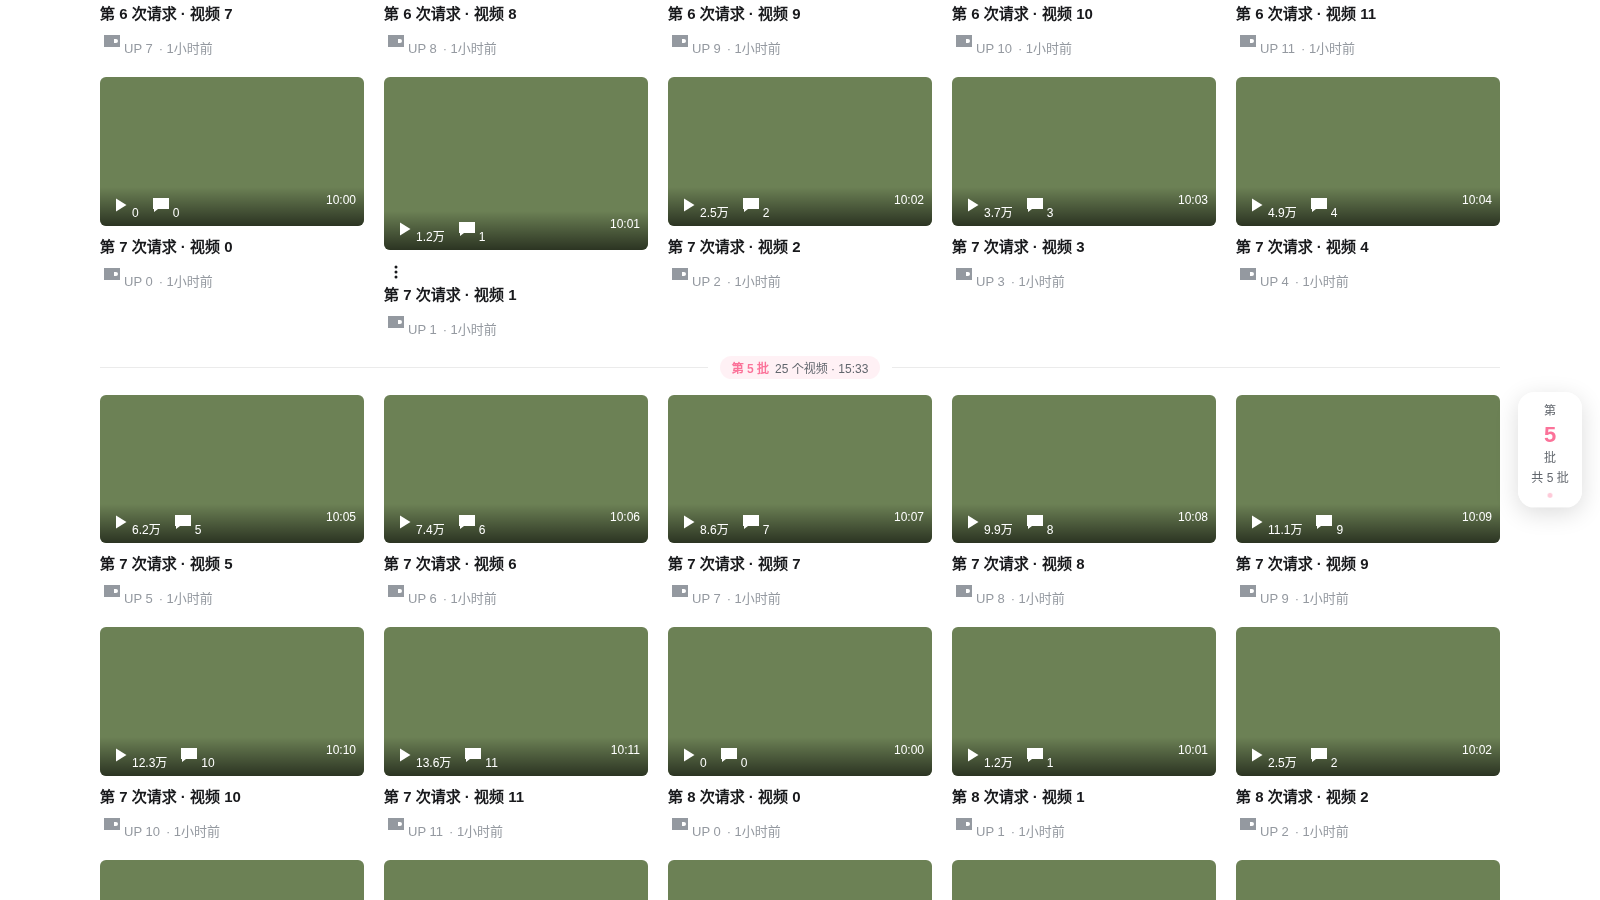
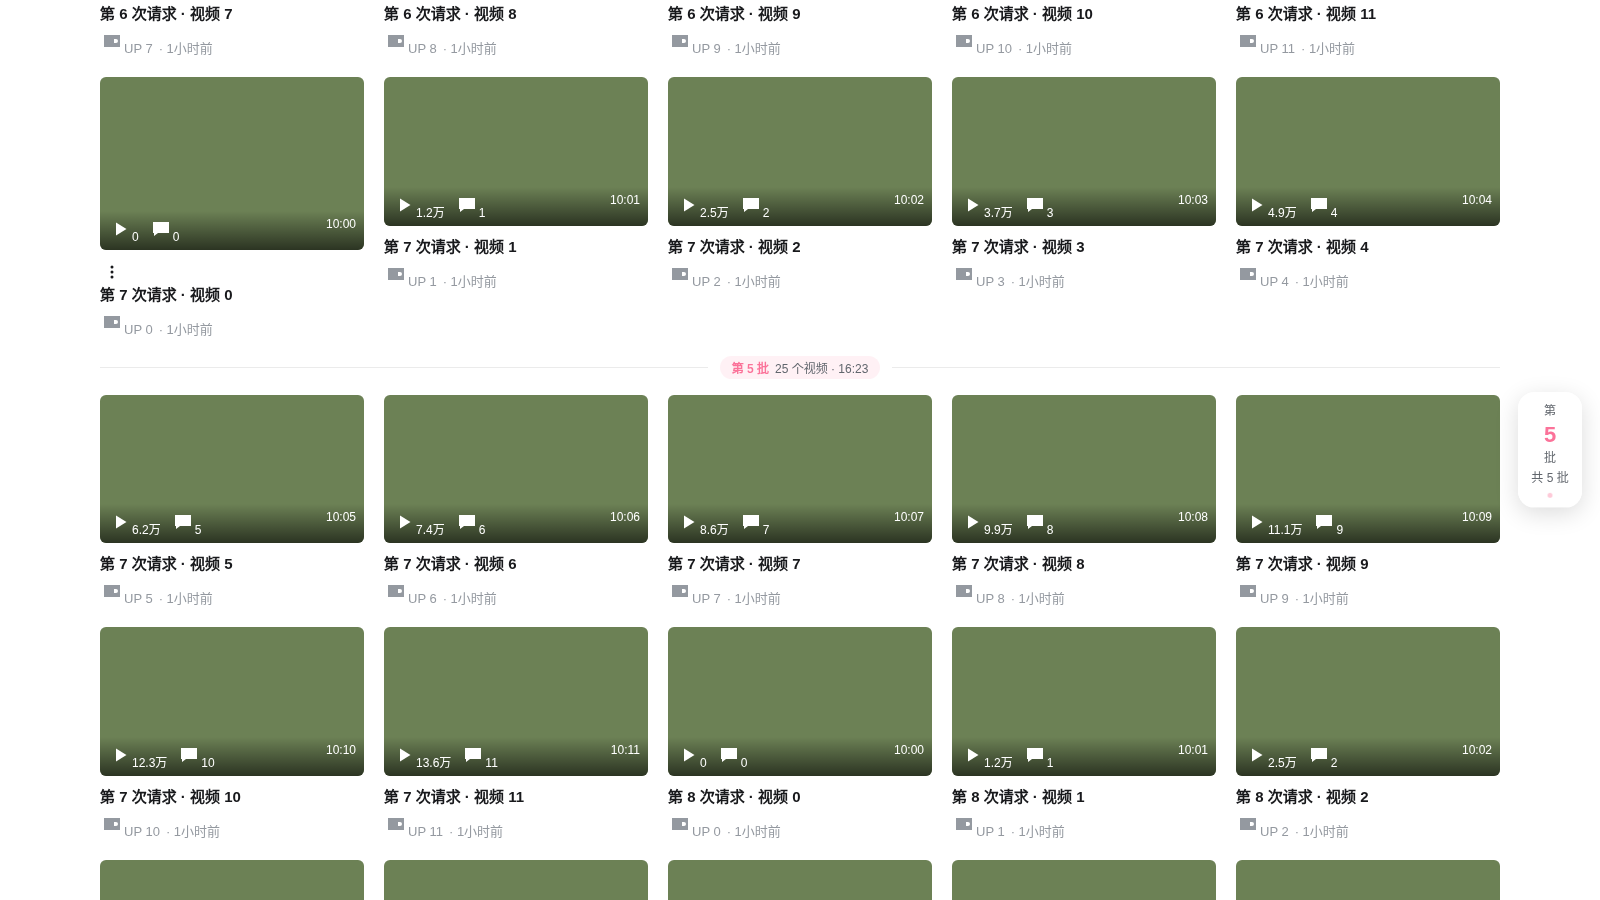
Docs: undo / native row fill; test counts; checksums

Changed region(s): [[0.0625, 0.2178, 0.4062, 0.3733]]

diff --git a/extension/CHANGELOG.md b/extension/CHANGELOG.md
@@ -14,7 +14,7 @@
 - 加载出来的卡片改用 B 站原生卡片的结构和类名，直接吃 B 站自己的样式：字体、圆角、深色模式、悬停效果都与原生一致，B 站改版时也会跟着变。
 - 悬停封面会预览视频画面（逐帧滑动，与原生的预览图来源相同）。
 - 稍后再看：悬停右上角一键加入（使用页面自己的登录状态）。
-- 「撤销」从结构上不可能再打开视频（登录后曾出现点「撤销」却打开了新标签）：选了「不感兴趣」后，整张卡片被换成一个普通的占位块（说明 + 「撤销」），它不在任何链接里、也不带 B 站卡片的类名；被换下的卡片里所有链接暂时去掉 `href` / `target`。B 站页面先注册的委托监听（mousedown / pointerup / click / auxclick / 中键）都找不到可打开的东西；「撤销」把原来那张卡片和链接原样放回。
+- 「撤销」从结构上不可能再打开视频（登录后曾出现点「撤销」却打开了新标签）：选了「不感兴趣」后，整张卡片被换成一个普通的占位块（说明 + 「撤销」），它不在任何链接里、也不带 B 站卡片的类名；被换下的卡片里所有链接暂时去掉 `href` / `target`。B 站页面先注册的委托监听（mousedown / pointerup / click / auxclick / 中键）都找不到可打开的东西；「撤销」把原来那张卡片和链接原样放回——放回同一个格子，并清掉可能残留的淡入淡出动画和内联样式，保证它真的重新可见（实机反馈过撤销后卡片没回来）。
 - ⋮ 菜单挂在卡片外面（固定定位），菜单项的点击不会被当成点卡片；靠近窗口底部时向上展开。
 - 卡片右下角 ⋮ 打开和原生一样的小菜单：添加至稍后再看、不感兴趣、不想看此 UP 主。后两项只在本插件生效（B 站网页没有公开的反馈接口，不会影响你的推荐算法）。选了之后原位显示和 B 站一样的提示：模糊封面上写「已减少此类推荐」，带「撤销」、右上角 × 和下方「知道了」。提示**在屏幕上时永远不会自己收起**：只在点 × / 知道了，或你自己滚动页面把它滚出屏幕时才收起——而且它累计在屏幕上至少 8 秒、并且完全离开视口超过 1 秒才算（页面重排把它挤出屏幕、或只离开一下都不算；之前「鼠标离开 2.5 秒后收起」和「一离开视口就收起」会让它 2–3 秒就消失）；收起后后面的卡片平滑挪位（FLIP 动画），有备用卡片时补在这一批末尾，保证这一行是满的。
 - 每批数量按首页当前的列数取整，最后一行不再缺几张：5 列时 24 → 25、36 → 35、12 → 10，多出来的留给下一批。
@@ -58,6 +58,7 @@
 
 ### 首页
 - 「隐藏广告卡片」跟上 B 站现在的广告卡片结构：登录后首页混在推荐里的广告（如「腾讯 WorkBuddy」，封面右下角写「广告」）以前漏网，因为旧规则只认已经不存在的 `bili-video-card__info--ad` 类名。现在按 B 站首页脚本里的卡片模板识别：封面统计区里直接出现「广告」文字（代替时长）、创意广告的火箭图标、指向 `cm.bilibili.com` 的广告跳转链接，以及旧类名。规则用 CSS `:has()` 在页面开始加载时就生效（不会先闪一下再消失），隐藏的是整个网格格子，后面的卡片顺位补上、不留空洞；遇到不认识的新结构，只要封面上有一个恰好写着「广告 / 推广」的小标签，也会由观察器补上标记。不按标题或 UP 主名字里的关键词屏蔽。
+- 隐藏广告后首页原生推荐区最后一行不再留空：B 站首屏卡片数是固定的（第 12 张起由 B 站自己隐藏），藏掉一张广告就会在最后一行留下空格。开启「无限下滑」时，扩展用一张备用推荐卡（不会在下面的批次里重复出现）补满这一行；按实际排版逐行计算，轮播、直播楼层卡和 B 站自己的错位样式都不影响。原生区恢复完整时备用卡自动撤回，不会单独占一行。备用卡和下面的卡片一样有 ⋮ 菜单。之前「已加载」的原生卡片强制显示规则会把 JS 标记的广告重新显示出来，也一并修正。
 - 无限下滑请求的推荐里，`is_ad`、`goto` 不是视频、`business_info`、`ad_info`、直播间、`cm.bilibili.com` 链接的条目都会跳过。
 - 记住上一次的开关状态，页面一开始就隐藏轮播，减少刷新时轮播闪一下的情况。
 - 回看历史批次时淡入切换，封面图加载完再显示。
